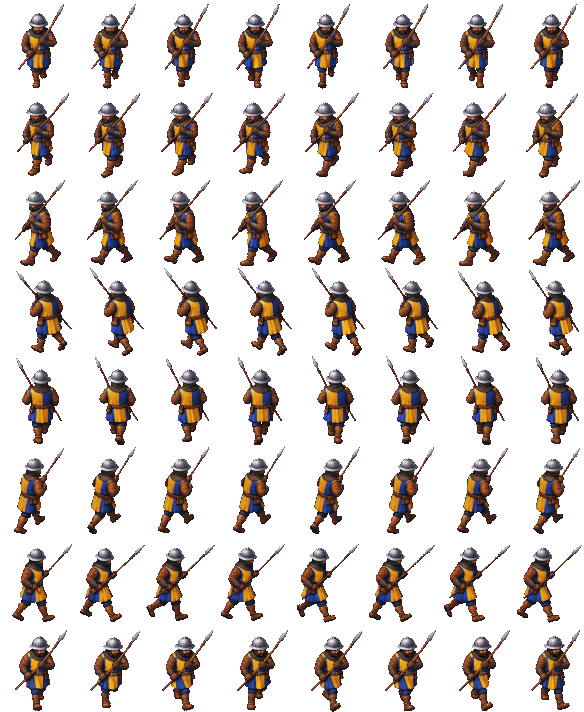
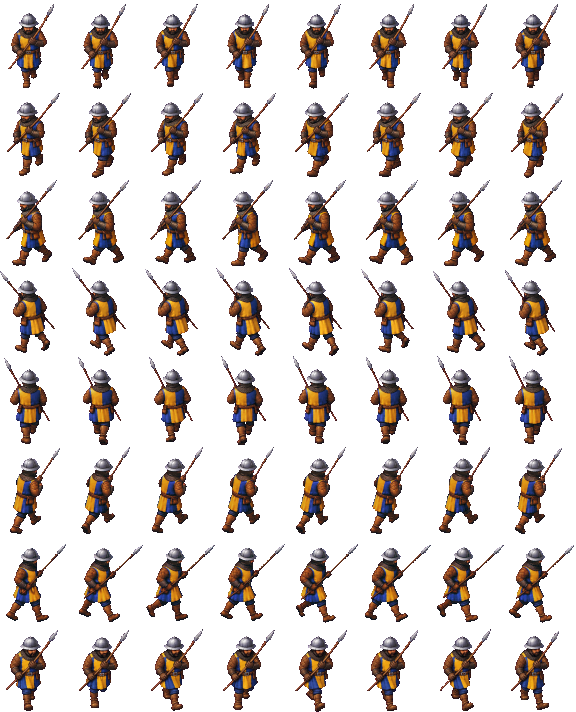
De speerman verspringt niet meer: de romp staat in elk beeld op dezelfde plek
Marcel: "De animaties verschieten nog wat". De generator zet de beelden niet even ver uit elkaar, en op het midden van
het vak schoof de romp binnen een pas tot 10 pixels heen en weer; bij een uitval sprong hij (op de voeten) tot 17.
Nu staat bij staan, lopen en aanvallen de romp (hoofd en schouders, rompMidden) in elk beeld op het anker, en bewegen
de benen en de speer eronder: gemeten op spelmaat lopen minder dan een halve pixel, aanvallen hoogstens 3,6. Vallen
blijft op het midden van het hele lijf. Het anker op de voeten (anker: 'voeten') is eruit.

diff --git a/beelden/beschrijving.js b/beelden/beschrijving.js
@@ -544,11 +544,11 @@
     "speerman": {
      "naam": "speerman",
      "cel": [
-      168,
+      148,
       141
      ],
      "anker": [
-      83,
+      75,
       113
      ],
      "snelheid": 1.5,
@@ -569,12 +569,12 @@
        "fps": 4,
        "herhaal": true,
        "cel": [
-        53,
-        93
+        44,
+        94
        ],
        "anker": [
-        26,
-        92
+        24,
+        93
        ]
       },
       "lopen": {
@@ -585,11 +585,11 @@
        "snelheid": 1.5,
        "stap": 0.6,
        "cel": [
-        73,
+        72,
         89
        ],
        "anker": [
-        42,
+        29,
         88
        ]
       },
@@ -599,12 +599,12 @@
        "fps": 10,
        "herhaal": false,
        "cel": [
-        159,
-        131
+        135,
+        130
        ],
        "anker": [
-        78,
-        109
+        70,
+        108
        ]
       },
       "sterven": {

diff --git a/ontwerp/code.md b/ontwerp/code.md
@@ -1220,10 +1220,10 @@ de browser en in de Node-tests werkt. De volgorde van de scripts in `index.html`
   dichtste midden van gelijke vakken in de rij; een klein stukje bij het dichtste grote stuk; een stuk over
   meer middens: `toewijzing` vooraf, de kernen van de lijven (zonder het staal) naar hun midden en groeiend over wat dik
   is, en elk dun stuk dat overblijft, zoals een schacht met zijn punt, bij het beeld waar het met zijn gekleurde pixels
-  het langst aan grenst: de schacht zit in de handen van zijn man, de punt raakt de buurman alleen met staal), het anker (staan: het midden van de voeten;
-  een beweging: één grondlijn, en opzij het midden van zijn vak, of met `anker: 'voeten'` (de aanval) het eerste beeld
-  met zijn lijf op het anker en de andere zoals de voeten schuiven, of met `anker: 'lijf'` (vallen) het midden van het
-  lijf op het anker en het laagste ervan op de grond), de kleur per stof gelijk aan die van het staande vel
+  het langst aan grenst: de schacht zit in de handen van zijn man, de punt raakt de buurman alleen met staal), het anker (opzij de romp, hoofd en schouders, in elk
+  beeld op dezelfde plek, `rompMidden`: de generator zet de vakken niet even breed, en op het midden van het vak sprong
+  de man; naar beneden staan op de zolen en een beweging op één grondlijn; met `anker: 'lijf'` (vallen) het midden van
+  het hele lijf op het anker en het laagste ervan op de grond), de kleur per stof gelijk aan die van het staande vel
   (`kleurGelijk`: grijs, de tinten van `FIGUREN[naam].stoffen` en de rest, in Lab het gemiddelde, en de spreiding van de
   lichtheid hoogstens die van het staande vel), verkleind (`verkleind`: gemiddeld per blok, dan scherp) naar
   `FIGUREN[naam].doel` pixels tot de helm, met een maat per vel (`maatVan`: het lijf zonder de speer, met een kern van een

diff --git a/ontwerp/beelden-van-de-generator.md b/ontwerp/beelden-van-de-generator.md
@@ -358,6 +358,10 @@ generator van 1,7 MB; op spelmaat is het verschil ruis) en lopen in het spel. Wa
   He faces south-east, down and to the right, TOWARDS the viewer, exactly like the walking SE sheet (sheet 9) and the
   attacking SE sheet (sheet 17): in frames 1 to 4 we see his face, his beard and the front of his tabard; we do NOT see
   his back. [...] One spear with one spearhead, which keeps pointing down and to the right. No blood. [...]"
+- **Het verspringen** (22 okt, Marcel: "De animaties verschieten nog wat"): op het midden van het vak schoof de romp
+  binnen een pas tot 10 pixels heen en weer en sprong hij bij een uitval tot 17. Nu staat de romp (hoofd en schouders)
+  bij staan, lopen en aanvallen in elk beeld op dezelfde plek (gemeten op spelmaat: lopen minder dan een halve pixel,
+  aanvallen hoogstens 3,6), en bewegen de benen en de speer eronder.
 - **Alle 25 vellen zijn er** (22 okt). Wat nog beter kan: eventueel 3 en 4 (lopen ZW en W:
   de punt naar achteren). De vallen vanaf 18 zijn glimmender en oranjer getekend (de wapenrok bijna zonder blauw);
   `kleurGelijk` trekt de kleur bij, de vorm niet. Bij N (vel 14), van achteren, speelt hetzelfde: dan de punt
